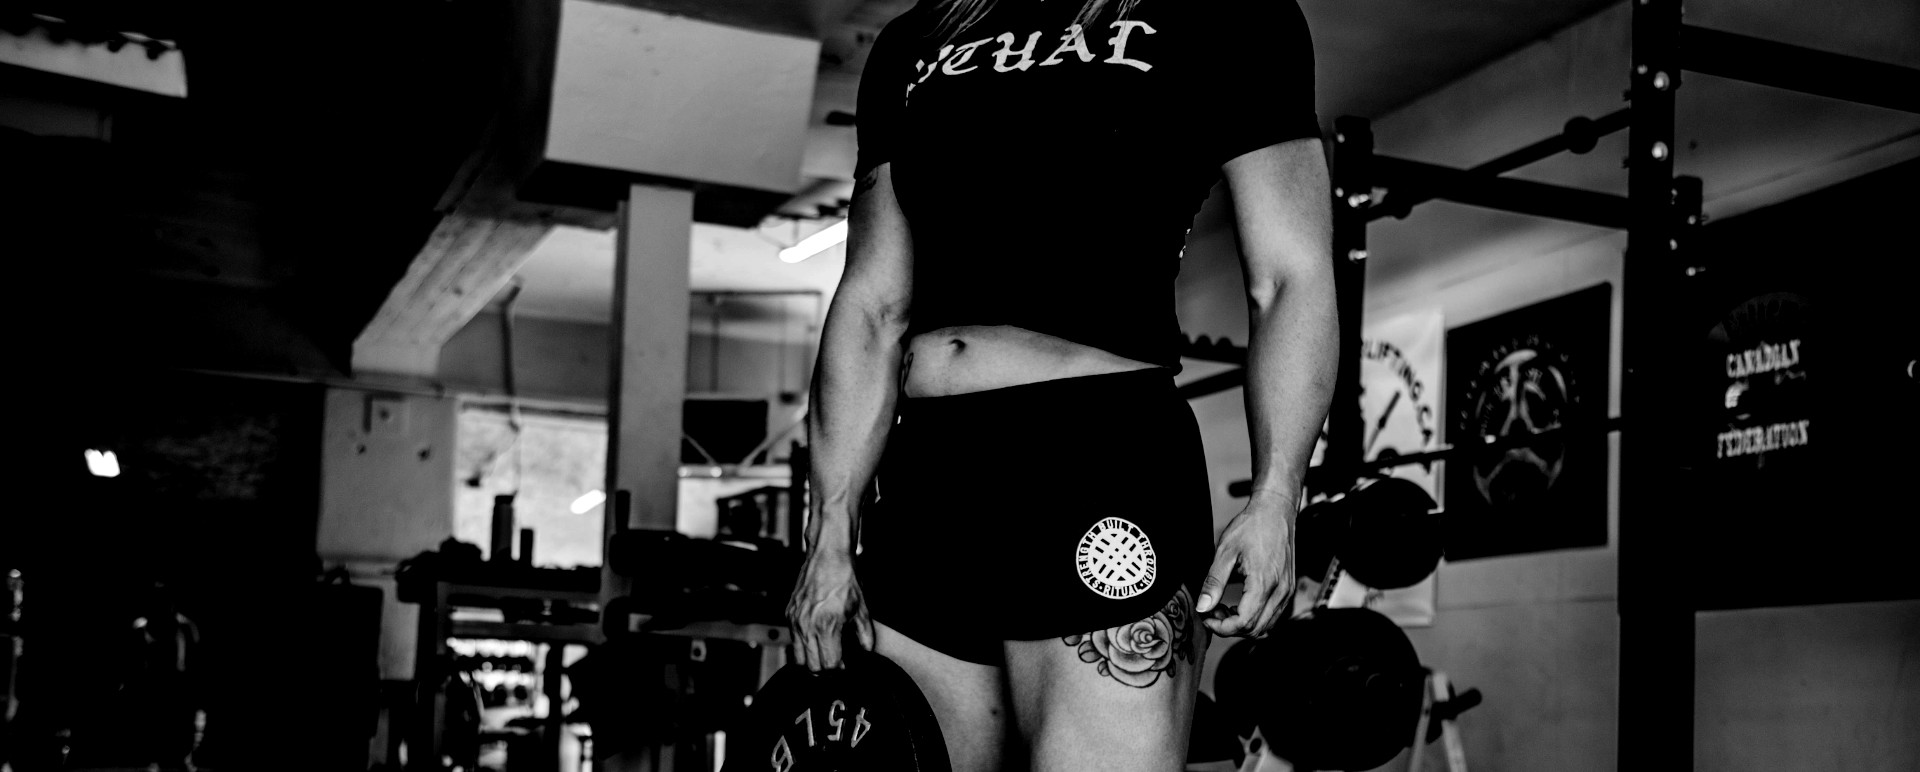
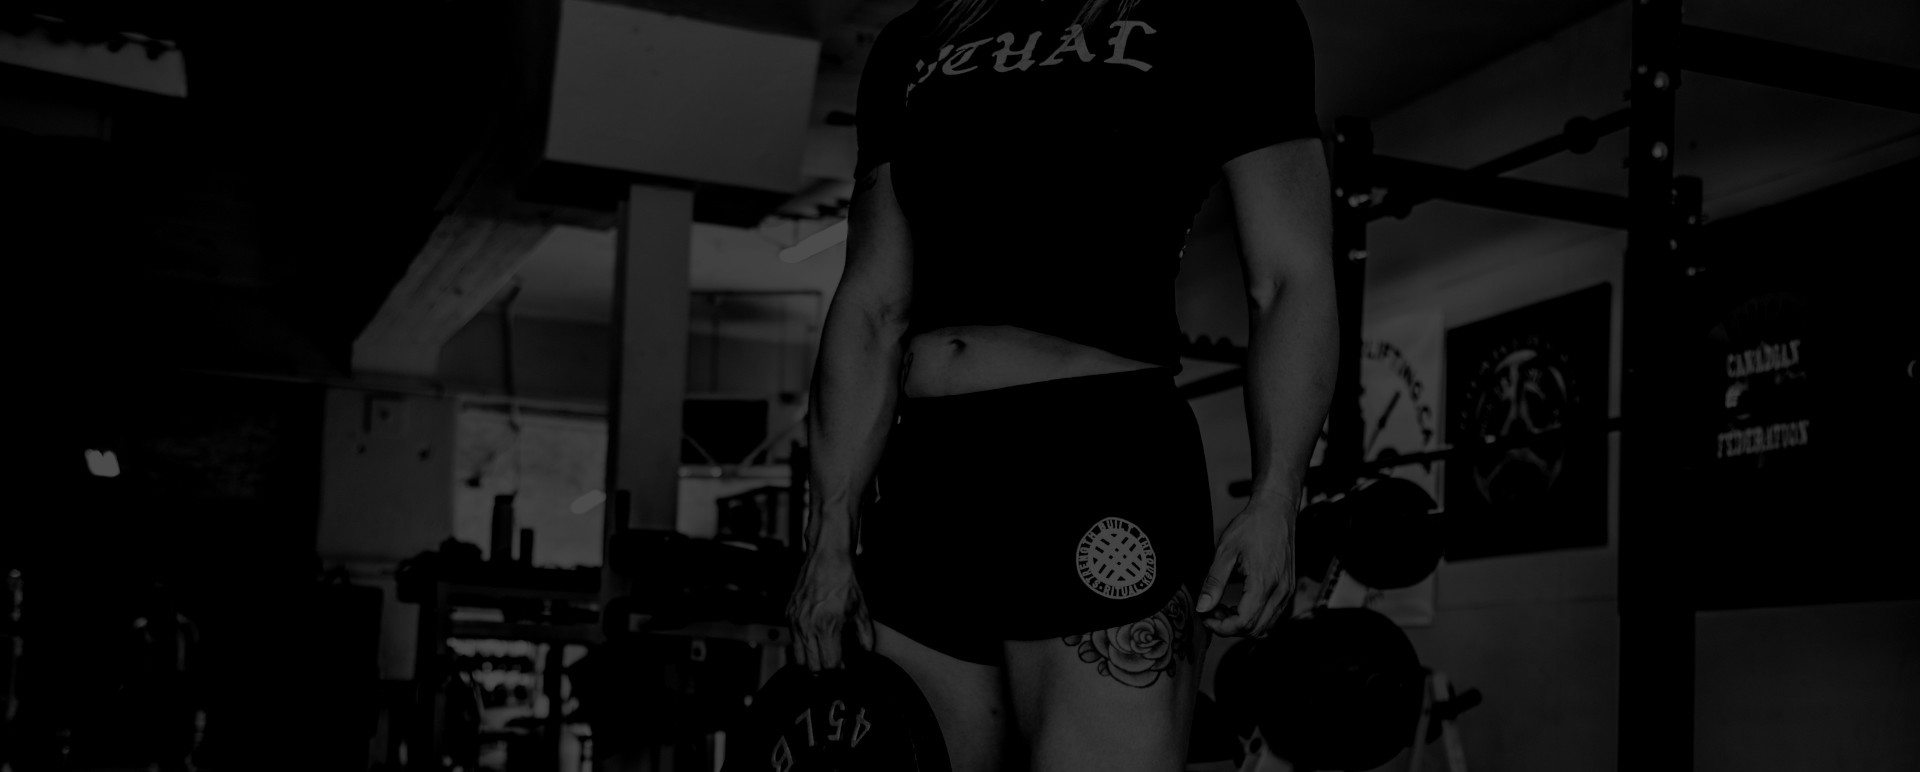
Additional section + some fixes. Some reviews are placeholders

diff --git a/index.html b/index.html
@@ -35,8 +35,8 @@
     <section>
         <div class="container" >
             <div class="row">
-                <div class="col-10 col-md-8 col-lg-6 mx-auto d-block text-center">
-                     <h1 class="m-4" style="color: #1EB9F0">REPFINITI</h1>
+                <div class="col-10 col-md-8 col-lg-6 p-4 mx-auto d-block text-center">
+                    <img  class="mx-auto img-fluid" alt='Repfiniti Text with Logo' width="200px" src='images/repfiniti.png'/>
                 </div>
             </div>
         </div>
@@ -65,23 +65,18 @@
     </section>
 
      <!-- App Store Reviews / Social Proof -->
-     <section class="container-fluid shadow-sm mb-5 pb-4" style='background-color: #F5F5F5'>    
+     <section class="container-fluid shadow-sm mb-5 pb-5" style='background-color: #F5F5F5'>    
         <div class="row p-4 mntr-center">
-            <div class="col-sm-6 col-lg-6 col-xl-6 px-5">
+            <div class="col-xl-12 px-5">
                 <img src="images/review_symbol.png" class="img-fluid mx-auto p-4" style="height: 180px;" alt="Comments with Stars"/>
-                <h2>"Hands down the most fluid workout app I've ever used. Really pushes you each workout."</h2> 
-                <h4>5 Star Review from Sarah74</h4>
+                <h2>"Easily the most fluid workout app I've used. Gives you the tools needed to really push yourself."</h2> 
+                <h4>5 Star Review from Karina</h4>
             </div>
-            <div class="col-sm-6 col-lg-6 col-xl-6 px-5">
-                <img src="images/review_symbol.png" class="img-fluid mx-auto p-4" style="height: 180px;" alt="Comments with Stars"/>
-                <h2>"Really helps me keep track of my progress. Don't think I've ever improved my 1RM so rapidly."</h2> 
-                <h4>5 Star Review from Gunther</h4>
-            </div>   
         </div>
     </section>
 
-    <!--How it Works Header-->
-    <section id="about" class="container-fluid">
+    <!--How it Works -->
+    <section id="about" class="container-fluid p-5">
         <div class="row justify-content-center mb-5">
             <div class="col-sm-10 col-md-8 col-lg-8 mt-5 px-3">
                 <h1 style="text-align: center">How It Works</h1>
@@ -108,33 +103,14 @@
         </div>
     </section>
     
-
-    <!-- Learn -->
-    <!-- <section class="container-fluid " style='background-color: #F5F5F5'>
-        <div class="row p-1">
-            <div class="col-sm-12 col-xl-6 px-5 mt-5 mntr-center mx-auto" >
-                    <h1 class='f-bold'>LEARN</h1>
-                    <p class='mntr-text-medium'>Whether you want to learn to surf, sew, sing or something else, MNTR helps you find interesting lessons nearby.</p>
-                    <a href='guides/general.html#student'><p class='f-bold mt-3 mntr-text-medium'>Check out our guide to learning with MNTR.</p></a>
-            </div>
-        </div>
-        <div class="row p-1">
-            <div class="col-sm-12 col-xl-6 px-5 mb-5 mntr-center mx-auto">
-                <img src="images/phones_learn.png" class="img-fluid" alt="Android Phone Running MNTR showing the Lesson Page."/>
-            </div>
-        </div>
-    </section> -->
-
-    <!-- Teach -->
-    <section class="container-fluid shadow-sm" style="background:url('images/bg_teach.jpg'); background-repeat: no-repeat; ">
+    <!-- Guided Workouts -->
+    <section class="container-fluid shadow-sm p-5" style="background:url('images/bg_teach.jpg'); background-repeat: no-repeat; height: 100%;">
         <div class="row p-1">
 
-            <div class="col-sm-12 col-xl-4 mntr-center mx-auto mt-4 p-5"  style="background-color: rgba(255, 255, 255, .85); border-radius: 10px;">
+            <div class="col-sm-12 col-xl-4 mntr-center-notext mx-auto mt-4 p-5 mntr-carousel-grid-cell-left">
                 <h1 class='f-bold text-dark'>Guided Workouts</h1>
-                
-                <p class='mntr-text-medium text-dark'>Simply follow the on screen prompts for each workout. CoachAI automatically determines the best reps & weights for your for each exercise.</p>
+                <p class='mntr-text-medium text-dark'>Simply follow the on screen prompts for each workout. CoachAI automatically determines the best reps & weights for each exercise.</p>
                 <p class='mntr-text-medium text-dark'>You're always in control. Adjust the reps or weight as needed every set. Gain insight into how much you're lifting compared to last workout.</p> 
-
             </div>  
 
             <div class="col-sm-12 col-xl-6 my-5 mx-auto" style="text-align: left;">
@@ -143,9 +119,49 @@
         </div>
     </section>
 
+    <!-- App Store Reviews / Social Proof -->
+    <section class="container-fluid mb-5 p-5" >    
+        <div class="row p-4 mntr-center">
+            <div class="col-xl-12 px-5">
+                <img src="images/review_symbol.png" class="img-fluid mx-auto p-4" style="height: 180px;" alt="Comments with Stars"/>
+                <h2>"It’s a very smart, classy, intelligent and no nonsense looking app. A bit like yourself.</h2> 
+                <h4>5 Star Review from Mum"</h4>
+            </div>   
+        </div>
+    </section>
+
+
+    <!-- AI Workouts -->
+    <section class="container-fluid shadow-sm p-5" style="background:url('images/bg_ai.jpg'); background-repeat: no-repeat;">
+        <div class="row p-1">
+            <div class="col-sm-12 col-xl-6 my-5 mx-auto" style="text-align: left;">
+                    <img src="images/COACHAI@0.5x.png" class="img-fluid" style="width: 40em;" alt="Android Phone Running MNTR showing the Lesson Page."/>
+            </div>
+            <div class="col-sm-12 col-xl-4 mntr-center-notext mx-auto mt-4 p-5 mntr-carousel-grid-cell-left">
+                <h1 class='f-bold text-dark'>CoachAI</h1>
+                
+                <p class='mntr-text-medium text-dark'>Not sure what to work today? Let CoachAI generate a workout aimed at targeting muscles you've worked the least. Refine to your liking.</p>
+                <p class='mntr-text-medium text-dark'>Limited access to equipment? No problem - simply tell Coach what equipment you have and he'll stick within your parameters.</p> 
+
+            </div>  
+        </div>
+    </section>
+
+    <!-- App Store Reviews / Social Proof -->
+    <section class="container-fluid mb-5 p-5" >    
+        <div class="row p-4 mntr-center">
+            <div class="col-xl-12 px-5">
+                <img src="images/review_symbol.png" class="img-fluid mx-auto p-4" style="height: 180px;" alt="Comments with Stars"/>
+                <h2>"Really helps me keep track of my progress. Don't think I've ever improved my 1RM so rapidly."</h2> 
+                <h4>5 Star Review from Gunther</h4>
+            </div>   
+        </div>
+    </section>
+
+
 
     <!-- 'What are you waiting for?' -->
-    <section class="container-fluid" style="background:url('images/bg_getmntr.jpg'); background-repeat: no-repeat; ">
+    <section class="container-fluid" style="background:url('images/bg_end.jpg'); background-repeat: no-repeat; ">
         <div class="row p-1">
 
             <div class="col-xl-6 col-xl-push-6 mx-auto mt-5" style='text-align: center'>
@@ -178,7 +194,7 @@
 
     <!-- Optional JavaScript -->
     <!-- jQuery first, then Popper.js, then Bootstrap JS -->
-    <script src="https://code.jquery.com/jquery-3.5.1.slim.min.js"
+    <!-- <script src="https://code.jquery.com/jquery-3.5.1.slim.min.js"
         integrity="sha384-DfXdz2htPH0lsSSs5nCTpuj/zy4C+OGpamoFVy38MVBnE+IbbVYUew+OrCXaRkfj"
         crossorigin="anonymous"></script>
     <script src="https://cdn.jsdelivr.net/npm/popper.js@1.16.1/dist/umd/popper.min.js"
@@ -186,7 +202,7 @@
         crossorigin="anonymous"></script>
     <script src="https://stackpath.bootstrapcdn.com/bootstrap/4.5.2/js/bootstrap.min.js"
         integrity="sha384-B4gt1jrGC7Jh4AgTPSdUtOBvfO8shuf57BaghqFfPlYxofvL8/KUEfYiJOMMV+rV"
-        crossorigin="anonymous"></script>
+        crossorigin="anonymous"></script> -->
 </body>
 
 </html>

diff --git a/styles/mntr.css b/styles/mntr.css
@@ -72,6 +72,11 @@ a:hover
     text-align: center;
 }
 
+.mntr-center-notext
+{
+    align-self: center;
+}
+
 .center-spacer
 {
     border-width: 0px 2px 0px 0px;
@@ -125,7 +130,7 @@ a:hover
     align-self: center;
     background-color: rgba(255, 255, 255, 0.80);
     padding: 20px;
-    border-radius: 10px;
+    border-radius: 4px;
 }
 .mntr-carousel-grid-cell-right
 {
